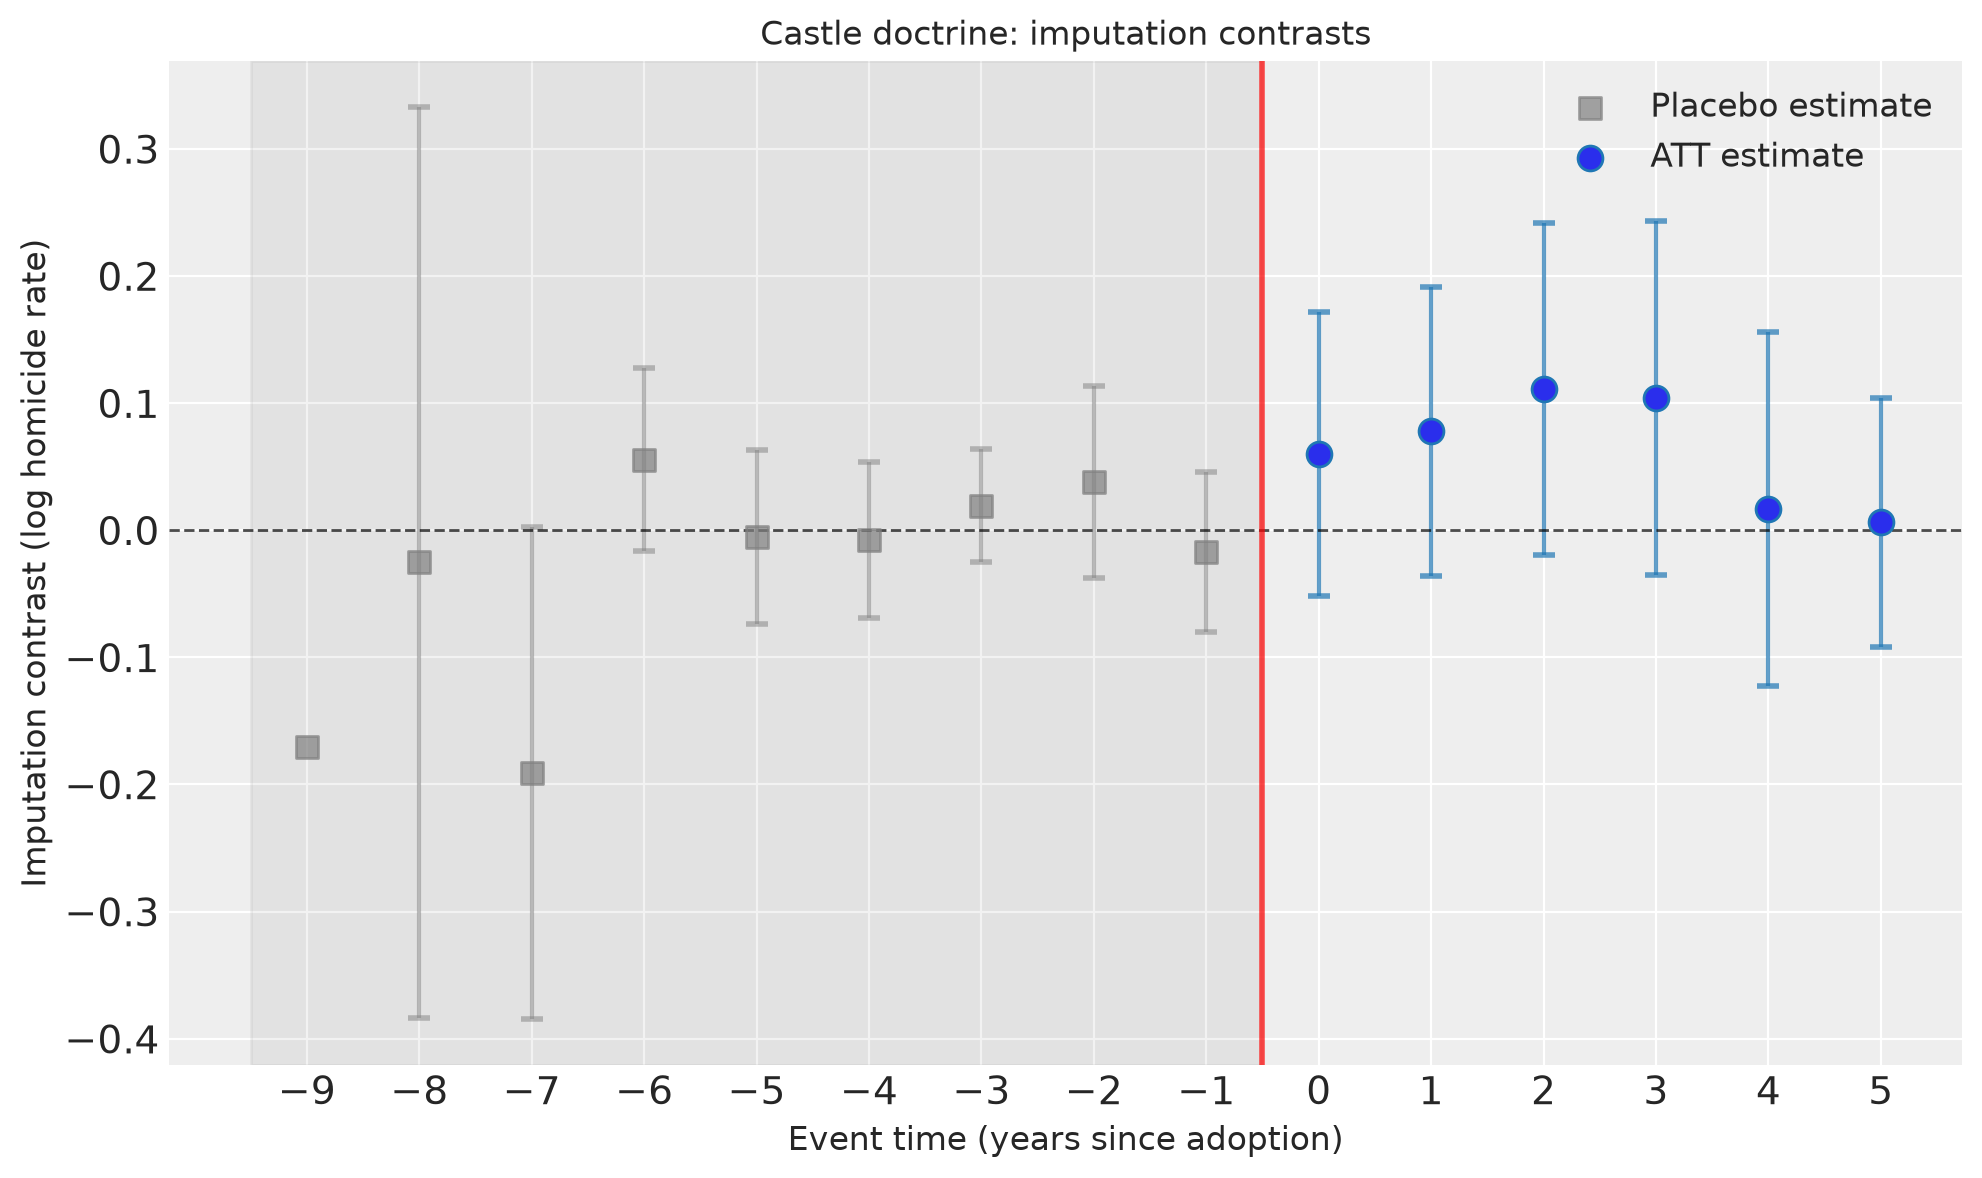
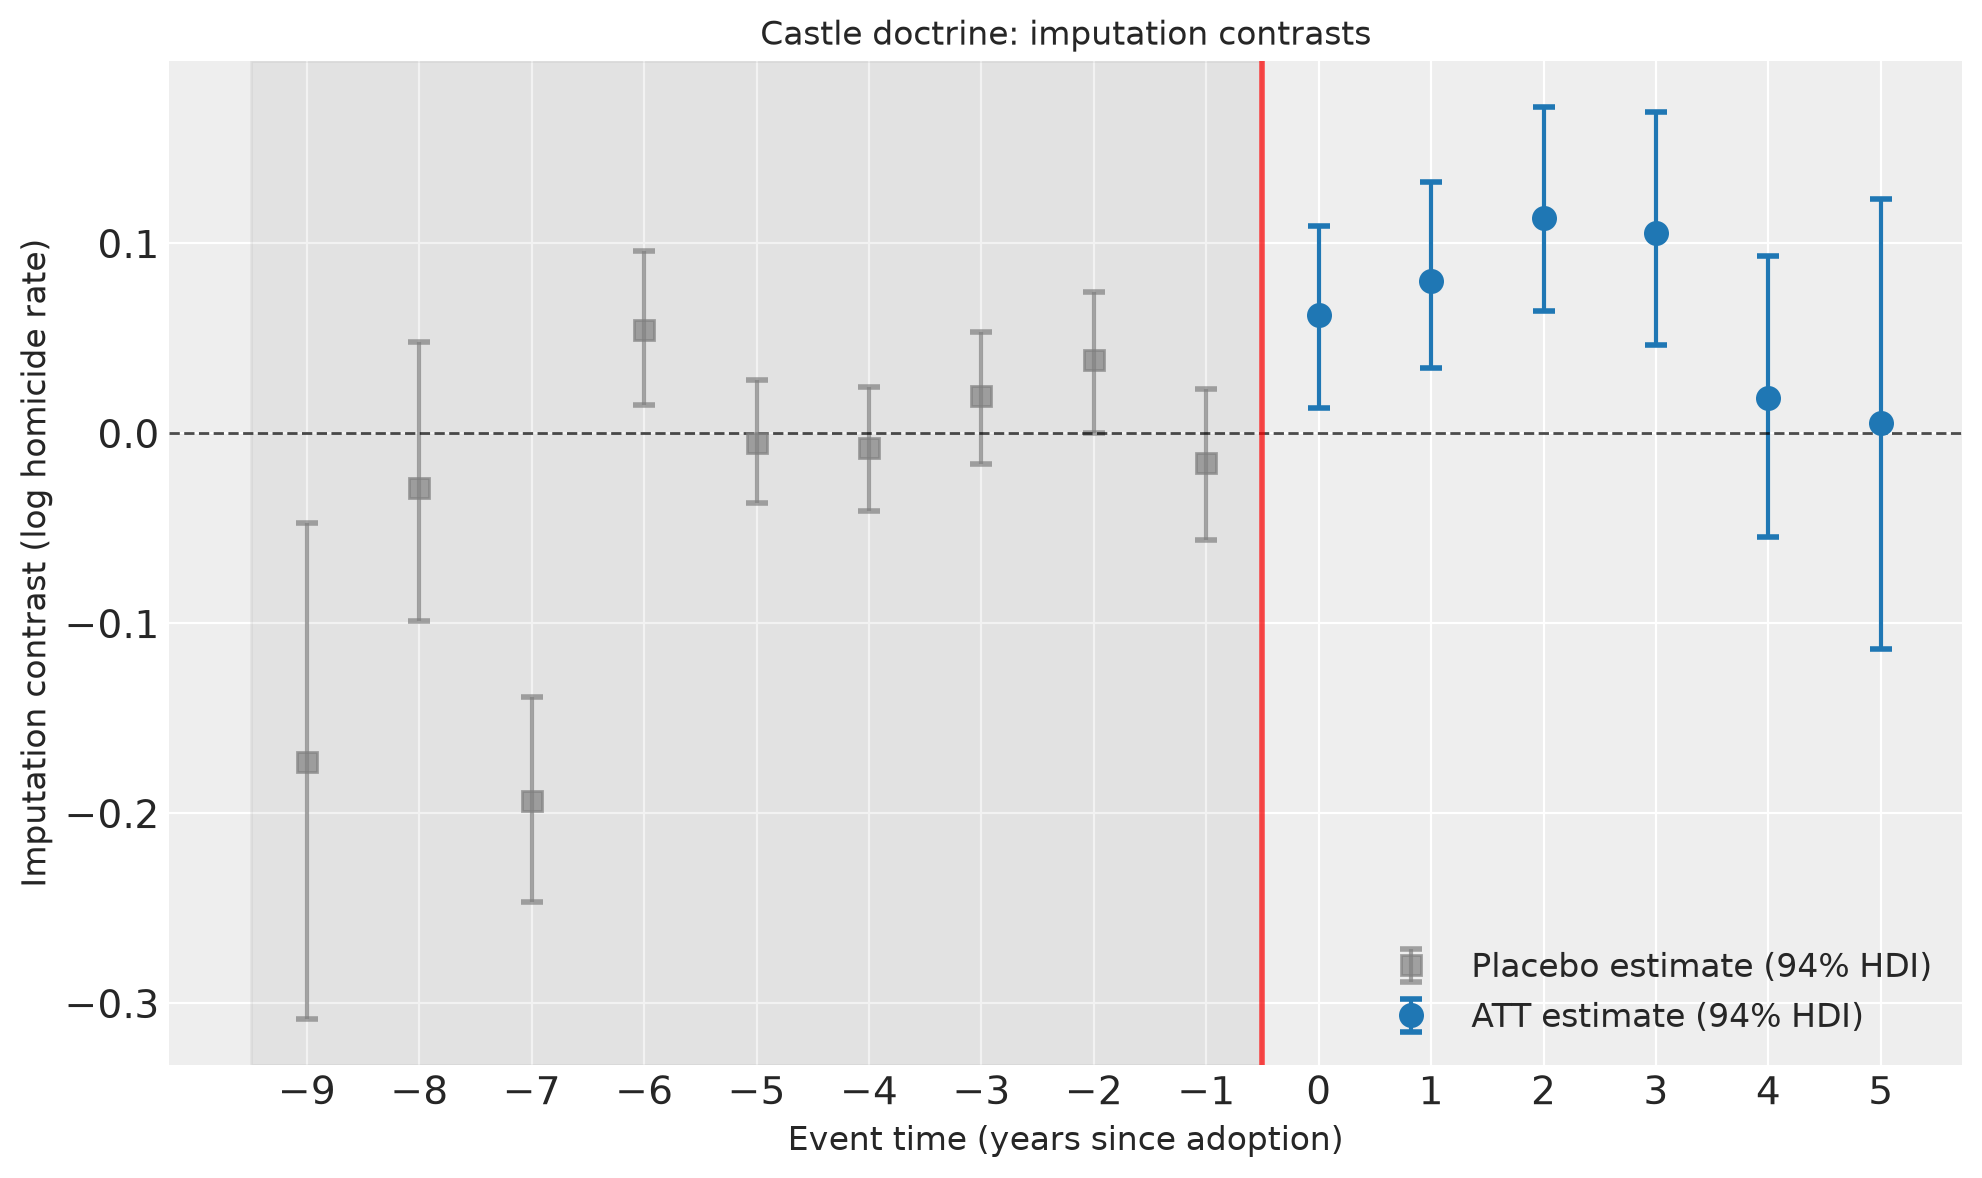
Re-render the Bayesian castle imputation.
Nutpie sampled the untreated outcome. The plan no longer calls that fit sklearn.

diff --git a/REPO_PLAN.md b/REPO_PLAN.md
@@ -242,7 +242,7 @@ Not this page, and not waiting on panel FE:
 | `castle_5.py` | Empty Python file. The R script is a Bacon decomposition. Callout | `09_did` | ❌ Missing | ⏭ |
 
 **Page**: `notebooks/09_difference_in_differences.qmd`
-- Castle doctrine uses `StaggeredDifferenceInDifferences` with scikit-learn `LinearRegression`. Not TWFE, and not a Bayesian fit
+- Castle doctrine uses `StaggeredDifferenceInDifferences` with PyMC `LinearRegression`, sampled with nutpie. Not TWFE. Fixed effects stay in the formula
 - Abortion, triple differences, the Bacon decomposition, and the WLS event study are callouts
 - [PR #584](https://github.com/pymc-labs/CausalPy/pull/584) is a common-timing event study. It is not this staggered design
 
